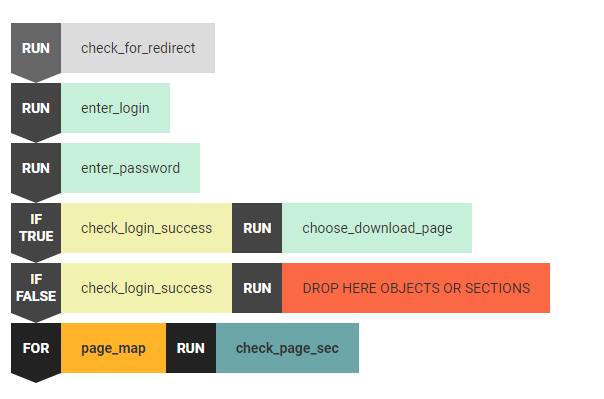
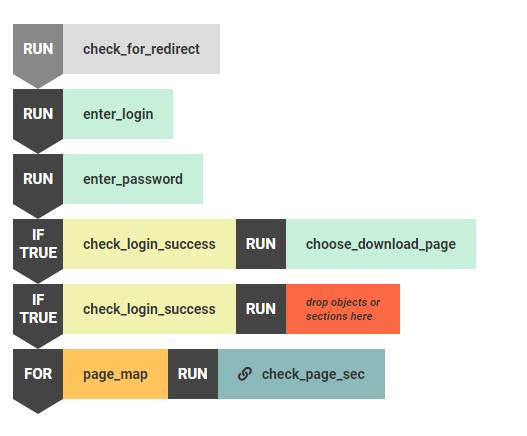
Update the 3.1.0 release notes; rename video tutorials page and links

Changed region(s): [[0.0, 0.0301, 0.9108, 0.9624]]

diff --git a/release_notes/release_notes_31.rst b/release_notes/release_notes_31.rst
@@ -1,6 +1,6 @@
 :author: Charles Callaway
 :date: 08-06-2020
-:modified: 23-06-2020
+:modified: 20-07-2020
 :tags: release notes
 :lang: en-US
 :translation: false
@@ -13,7 +13,7 @@
 .. _release_notes_v3_1_0:
 
 =======================
-Version 3.1.0 - Current
+Version 3.1.0 (Current)
 =======================
 
 Alyvix is an open source APM software tool for visual monitoring. If your machine matches the
@@ -24,55 +24,66 @@ Alyvix 3.1.x.
 
 
 
-.. _install_release_v3_0_2:
+.. _install_release_v3_1_0:
 
 .. topic:: Version 3.1.0
 
-   **Release date:**  August 26th, 2020  :warn:`(temporary date)`
+   **Release date:**  July 21st, 2020
 
-**New Features**  :warn:`(missing the pivotal tracker links)`
+**New Features**
 
-* When running a test case, whether via Alyvix Robot or Alyvix Editor, the CLI output
-  :ref:`now reports measurements <alyvix_robot_result_cli>`
-  for every loop iteration, or else for the last execution of a test case object.  The format of
-  the :ref:`Measure and Series <test_case_data_format_measure>` data structures supporting this
-  have been udpated with more detailed information.
-* It is now
-  :ref:`faster and easier to debug <alyvix_editor_interface_debug>`
-  both individual test case objects and partial scripts with the addition of dedicated
-  interface controls.
-* We've introduced a new interface control which will
-  :ref:`grab a new screen capture <alyvix_selector_interface_grab_resolution>`
-  (either to replace an existing one or use in conjunction with Duplicate) or add an additional
-  screen capture at a different resolution than those already contained in the test case object.
+* :iconlink:`pivotal|Pivotal Tracker Issue #172976962|172976962` |mdash| **Multiple measures:**
+  Alyvix :ref:`reports all the measures <alyvix_robot_result_cli>` of the
+  :ref:`same object <test_case_data_format_measure>`
+  that runs more than one time (e.g., multiple inserts, in loops)
+* :iconlink:`pivotal|Pivotal Tracker Issue #172976968|172976968` |mdash| **Quick testing:**
+  Alyvix provides a :ref:`quick test for single objects <alyvix_editor_interface_debug>`,
+  single sections or multiple selected rows from the scripting panel
+* :iconlink:`pivotal|Pivotal Tracker Issue #172976987|172976987` |mdash| ***Regrabbing objects:**
+  Alyvix can :ref:`grab a new frame <alyvix_selector_interface_grab_resolution>` for an
+  existing object to redefine it or to define it at a different screen resolution
 
-**Improvements**  :warn:`(currently may have wrong pivotal tracker links)`
+**Improvements and Bug Fixes**
 
-* :iconlink:`pivotal|Pivotal Tracker Issue #171460651|171460651` |mdash| **Restructured CLI and Map Arguments:**
+* **User Experience:**
 
-  Better organization for default, CLI and Map arguments, including a default value for
-  String insertions when there are more loop iterations than supplied values.
+  * Use :ref:`default, CLI and map arguments <alyvix_robot_cli_options>`, including for run calls and decryption
+  * Directly :ref:`insert objects, sections and maps <alyvix_editor_script_mgmt_top>` (for looping) at the bottom of the scripting panel
+  * Drag and drop :ref:`objects, sections and maps <alyvix_editor_scripting_node_add>` to substitute parts of conditional and loop elements
+  * Re-sort scripting blocks :ref:`without substituting them <alyvix_editor_scripting_node_add>` (they are now indented and lighter in color when dragged)
+  * A blue bar is displayed on the left of :ref:`selected scripting blocks <alyvix_editor_interface_debug>`
+  * Renaming or removing scripted objects, sections and maps displays a confirmation request
+  * Scripting section blocks shows a :ref:`link icon <alyvix_editor_scripting_node_legend>` to the related section
+  * :ref:`Renaming an object <alyvix_selector_interface_list>` does not move the cursor focus away due to re-sorting
+  * Add an :ref:`interaction point icon <alyvix_designer_options_components_common>` to object components that do not interact centrally (by default)
+  * Select a file (through file explorer) for :ref:`run call arguments <alyvix_designer_options_components_root>`
+  * The console tab :ref:`echoes the Alyvix Robot output <alyvix_editor_run_script>` and when complete displays an annotated screenshot of the first failed object
+  * Clicking on an object in a multiple selection displays just that object
+  * Naming controls are applied to :ref:`section and map names <alyvix_editor_script_mgmt_top>`, where you cannot use reserved names such as "main", "fail", "exit"
+  * The object "Edit" button now also appears for groups with 5 components
+  * ``greater than zero`` is an option of the :ref:`detect logic for text components <alyvix_designer_options_components_text_detect>`
+  * The "Cancel" button for the "Open" editor option now really cancels the operation
+  * Pressing the "Exit" button when in an empty test case just shuts down the editor
+  * Valid argument syntax (eventually with default value) paints :ref:`the regex edit box <alyvix_designer_options_components_text_detect>` in yellow
+  * Renaming objects that are in a script provides several options to manage the change
+  * Deselecting all rows in the Selector panel will empty the Designer panel
+  * Clicking the "X" window button exits the editor with a warning message to avoid losing any unsaved work
+  * Renaming maps can now also be concluded by pressing the enter key or moving the cursor focus away
+  * Changes to objects are validated whenever action buttons are pressed (e.g., run, drag, append, grab, add, duplicate, and edit)
+  * Duplicating an object selects both of them, and neither one will be displayed in Designer
+  * Removing a scripted section no longer pops up a warning alert
+  * Enlarged the Sections panel to provide more space for section and map names
+  * An object's individual run button will not trigger the "fail" and "exit" sections of the main script
+  * Running an executable without arguments (void field) no longer triggers errors
+  * You can now click the "X" filter button in Selector to list objects defined for the working resolution
+  * Regrabbed objects will process new regex's for their new scrapes
 
-* :iconlink:`pivotal|Pivotal Tracker Issue #171438457|171438457` |mdash| **Better Interface Controls:**
+* **Output:**
 
-  Easier to use interface controls for script management, including:
+  * Alyvix Robot outputs a :ref:`clearer result message <alyvix_editor_run_script>` after a test case execution
+  * :file:`.alyvix` output files also report "arguments", "alias" and Nagios "state" within the "run" section
+  * Alyvix Robot provides compliant Nagios output: thresholds have the same measurement unit as that of the related value
 
-  * Added hover confirmation via a blue bar in the scripting panel
-  * Multi-selection over scripting nodes
-  * New Drag, Insert and Run controls employed by the new debugging capabilities
+* **System:**
 
-* :iconlink:`pivotal|Pivotal Tracker Issue #171433507|171433507` |mdash| **Improved User Experience:**
-
-  Improved the user experience throughout the UI, such as:
-
-  * Confirm/cancel dialog boxes
-  * Annotations of failed objects in the Console tab
-  * Better drag-and-drop support for scripting
-  * Checks employed on scripts when renaming and deleting the underlying test case objects
-  * Renamed objects in Selector are no longer sorted out of focus
-
-**Bug Fixes**  :warn:`(waiting for information)`
-
-* *Bugfix #1:*  Description
-* *Bugfix #2:*  Description
-* *Bugfix #3:*  Description
+  * Alyvix can be installed on Windows 8 64-bit machines: the *numpy* version is now compatible

diff --git a/index.rst b/index.rst
@@ -18,7 +18,7 @@
    test_case_building.rst
    test_case_execution.rst
    test_case_data_format.rst
-   videos_and_tutorials.rst
+   video_tutorials.rst
    glossary.rst
    release_notes.rst
    get_in_touch.rst
@@ -60,7 +60,7 @@ and prepare you to implement Alyvix in your environment.
 
 For more extended, video-based example tutorials on the basics of using Alyvix, real-world use
 cases you might use in production, and operations-oriented explanations of Alyvix features, take
-a look at the :ref:`Videos and Tutorials <videos_and_tutorials_top>` page.
+a look at the :ref:`Videos and Tutorials <video_tutorials_top>` page.
 
 The sections on test case building and execution contain more in-depth details and explanations
 about using Alyvix Editor and Alyvix Robot to create and execute test cases.

diff --git a/test_case_building.rst b/test_case_building.rst
@@ -49,7 +49,7 @@ Once you've built a test case, you can let it interact with your chosen app eith
 
 The :ref:`Test Case Data Format <test_case_data_format_top>` page provides technical details on how
 Alyvix test case files are organized and what they contain, while the
-:ref:`Getting Started <getting_started_top>` and :ref:`Videos and Tutorials <videos_and_tutorials_top>`
+:ref:`Getting Started <getting_started_top>` and :ref:`Videos and Tutorials <video_tutorials_top>`
 sections include detailed mini-tutorials and topic-based videos on how to use Alyvix Editor and Robot.
 
 All of these applications can be launched from the Windows Command Prompt or PowerShell.

diff --git a/videos_and_tutorials/production_systems_tutorials.rst b/videos_and_tutorials/production_systems_tutorials.rst
@@ -1,6 +1,6 @@
 :author: Charles Callaway
 :date: 21-05-2020
-:modified: 21-05-2020
+:modified: 20-07-2020
 :tags: videos, tutorials
 :lang: en-US
 :translation: false
@@ -12,9 +12,9 @@
 
 .. _production_systems_tutorials_top:
 
-=======================================
-Production Systems Videos and Tutorials
-=======================================
+==================================
+Production Systems Video Tutorials
+==================================
 
 .. topic:: Secure RDC Login Video
 

diff --git a/videos_and_tutorials/operations_tutorials.rst b/videos_and_tutorials/operations_tutorials.rst
@@ -1,6 +1,6 @@
 :author: Charles Callaway
 :date: 21-05-2020
-:modified: 21-05-2020
+:modified: 20-07-2020
 :tags: videos, tutorials
 :lang: en-US
 :translation: false
@@ -12,9 +12,9 @@
 
 .. _operations_tutorials_top:
 
-===============================
-Operations Videos and Tutorials
-===============================
+==========================
+Operations Video Tutorials
+==========================
 
 .. _operations_tutorials_image:
 

diff --git a/getting_started/windows_start_button.rst b/getting_started/windows_start_button.rst
@@ -18,7 +18,7 @@ Example:  Opening the Windows Start Menu
 This short task will accomplish something simple, yet will show you the potential of
 using Alyvix.
 
-Tutorials similar to this one are also available in :ref:`video format <videos_and_tutorials_top>`.
+Tutorials similar to this one are also available in :ref:`video format <video_tutorials_top>`.
 
 .. rst-class:: bignums
 

diff --git a/getting_started.rst b/getting_started.rst
@@ -45,7 +45,7 @@ how the Alyvix interface works.
 
 
 .. note::  You can find further examples, conceptual descriptions, and use production-centered
-           cases on the :ref:`Video and Tutorial <videos_and_tutorials_top>` page.
+           cases on the :ref:`Video and Tutorial <video_tutorials_top>` page.
 
 
 .. toctree::

diff --git a/video_tutorials.rst b/video_tutorials.rst
@@ -10,11 +10,11 @@
 
 
 
-.. _videos_and_tutorials_top:
+.. _video_tutorials_top:
 
-####################
-Videos and Tutorials
-####################
+###############
+Video Tutorials
+###############
 
 This page presents all Alylvix 3 videos and tutorials, classified by task type.
 
